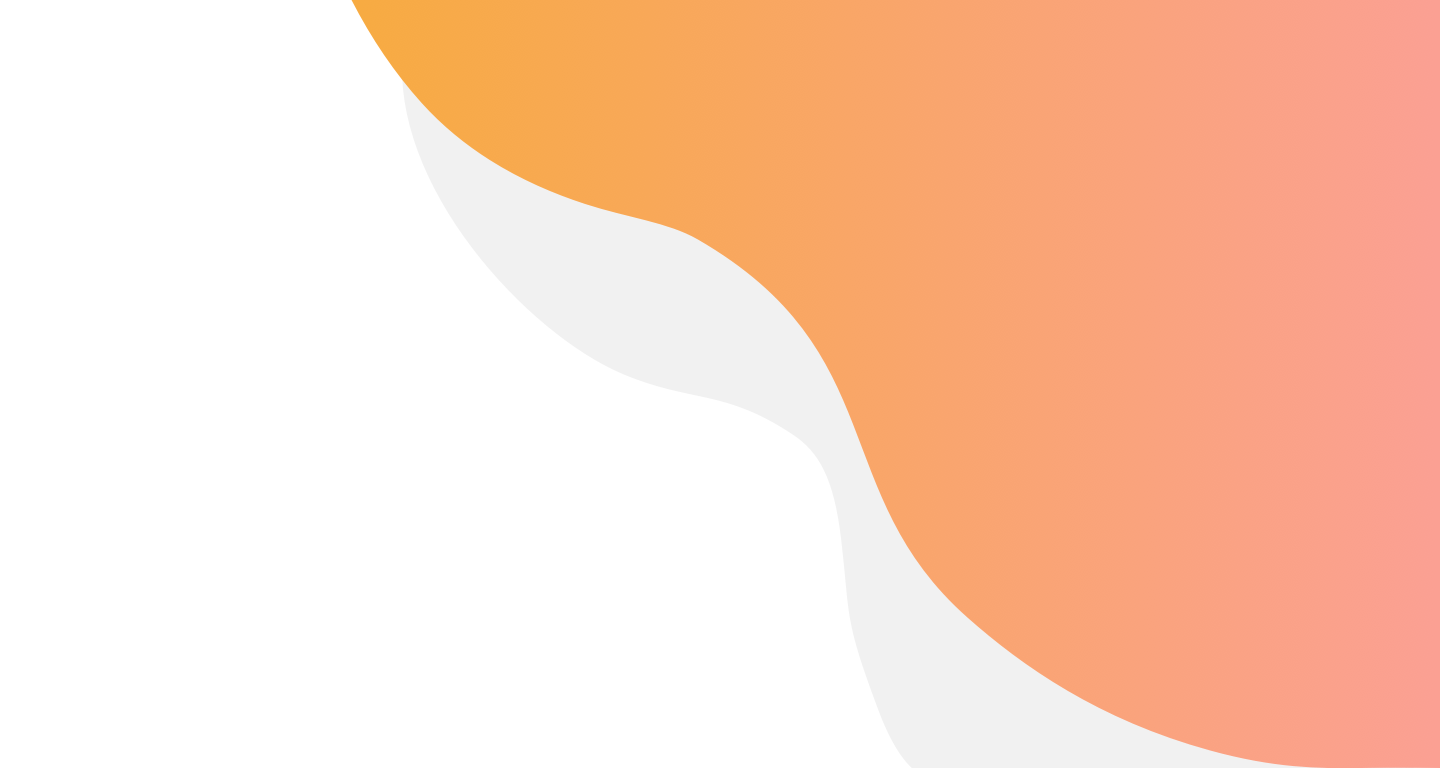
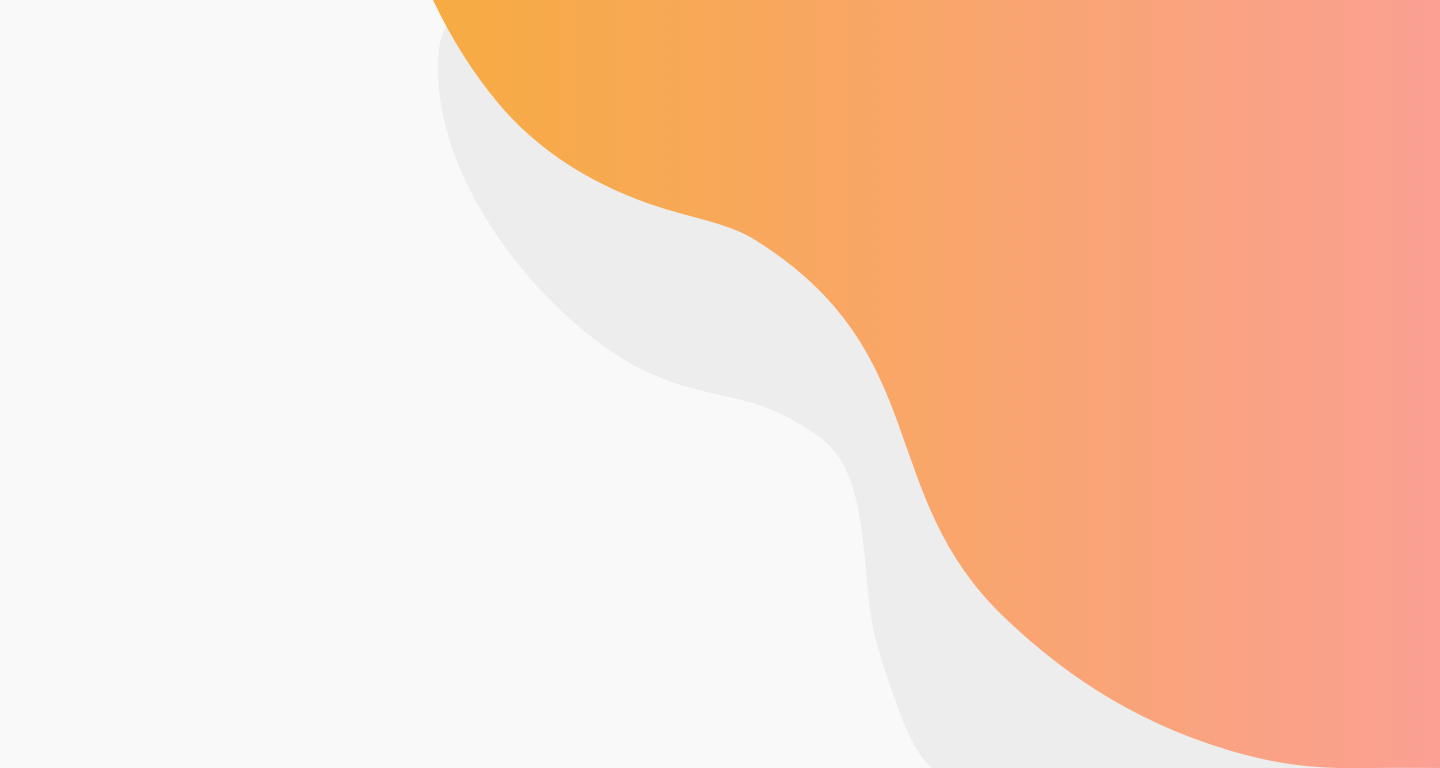
change bg-pic on desktop, edit registration form on desktop

Changed region(s): [[0.25, 0.0, 0.9062, 1.0]]

diff --git a/app/sass/blocks/_auth.sass b/app/sass/blocks/_auth.sass
@@ -1,24 +1,31 @@
 .auth
   height: 100vh
   overflow: hidden
-  background: url('../images/auth-bg-desktop.png') top no-repeat
-  background-size: cover
+  background: url('../images/auth-bg-desktop.svg') no-repeat
+  background-position: top right
+  background-size: auto 100vh
+
+  &--registration
+    background: url('../images/auth-bg-desktop--registration.svg') no-repeat
+    background-color: #F9F9F9
+    background-position: top right
+    background-size: auto 100vh
 
   +respond-to(1024px)
-    background: url('../images/auth-bg-tablet.png') no-repeat
-    background-size: cover
+    background: url('../images/auth-bg-tablet.svg') no-repeat
+    background-size: 100%
   
   +respond-to(768px)
-    background: url('../images/auth-bg-mobile.png') no-repeat
-    background-position-y: -130px
-    background-size: cover
+    background: url('../images/bg.svg') no-repeat
+    background-size: 100%
   
   +respond-to(540px)
-    background-position-y: -50px
+    overflow: auto
+    overflow-x: hidden
 
 .auth__header
   position: absolute
-  left: 20px
+  left: 0
   right: 20px
   top: 50px
   display: flex
@@ -41,6 +48,10 @@
     display: block
 
 .auth__header-btn
+  width: 137px
+  display: flex
+  align-items: center
+  justify-content: center
   background-color: #fff
   box-shadow: 0 1px 1px 0 #da3a29
   border-radius: 32px
@@ -52,14 +63,24 @@
   cursor: pointer
   border: none
 
+.auth__steps
+
+  +respond-to(1024px)
+   padding: 0
+
 .auth__content
-  height: 100vh
-  display: none
-  align-items: center
+  display: none  
+  align-items: flex-start
   justify-content: center
 
-  +respond-to(768px)
+  +respond-to(1024px)
+    align-items: center
+
+  +respond-to(768px)    
     padding: 0 20px
+
+  +respond-to(540px)
+    height: auto
 
 .auth__content--active
   display: flex
@@ -70,7 +91,7 @@
 .auth__form-registration,
 .auth__form-account
   @extend %page-wrapper
-  padding: 60px 140px 75px
+  padding: 45px 145px 56px
   width: 310px
   box-sizing: content-box
 
@@ -81,6 +102,12 @@
     background-color: transparent
     box-shadow: none
     padding-bottom: 30px
+
+.auth__form-registration
+  height: 560px
+  width: 550px
+  padding: 58px 120px 69px
+  box-sizing: border-box
 
 .auth__form-title
   +OpenSansSemiBold
@@ -94,7 +121,7 @@
   .auth__form-registration &
     font-size: 34px
     text-align: center
-    margin-bottom: 24px
+    margin-bottom: 20px
 
 .auth__form-subtitle
   +OpenSansRegular
@@ -108,12 +135,13 @@
 .auth__form-field
   display: block
   width: 310px
+  margin-bottom: 20px
 
   +respond-to(768px)
     width: 270px
-  
-  &:not(:last-child)
-    margin-bottom: 20px
+
+  &:nth-child(3) 
+    margin-bottom: 16px
 
 .auth__form-field--flex-column
   display: flex
@@ -121,20 +149,24 @@
 
 .auth__form-field--relative
   position: relative
+  margin-bottom: 16px  
 
 .auth__form-field-title
-  +OpenSansRegular
+  +LatoRegular
   font-size: 14px
-  color: #babbbb
-  margin-bottom: 16px
+  color: #BABBBB
+  margin-bottom: 13px
   display: block
+
+  &--sex
+    margin-bottom: 10px
 
 .auth__form-field-icon
   position: absolute
-  width: 20px
-  height: 20px
-  bottom: 12px
-  right: 20px
+  width: 22px
+  height: 21px
+  bottom: 8px
+  right: 16px
 
   svg
     max-width: 100%
@@ -146,6 +178,8 @@
 
 .auth__form-field-radio
   cursor: pointer
+  align-items: center
+  margin-bottom: 2px
   
   span
     +OpenSansRegular
@@ -154,7 +188,7 @@
     margin-left: 8px
   
   &:not(:last-child)
-    margin-right: 24px
+    margin-right: 29px
 
 .auth__form-field-radio-wrapper
   position: relative
@@ -178,36 +212,37 @@
     left: -2px
     top: 0
     background-color: #fff
-    width: 18px
-    height: 18px
+    width: 17px
+    height: 17px
   
   .auth__form-field-radio-circle
     content: ''
     position: absolute
-    width: 6px
-    height: 6px
+    width: 7px
+    height: 7px
     background-color: #dfe0e0
-    top: 6px
-    left: 4px
+    top: 5px
+    left: 3px
     border-radius: 50%
     margin: 0
     display: none
 
 .auth__form-field-input
+  appearance: none
   border: 1px solid #d7d7d7
   box-shadow: 0 3px 4px 0 rgba(225, 224, 224, .5)
   border-radius: 32px
   +OpenSansRegular
   font-size: 14px
   color: #243238
-  padding: 12px 20px
+  padding: 9px 20px
   width: 100%
+  height: 40px
 
   +respond-to(768px)
     padding: 6px 20px
 
 .auth__form-wrapper
-  margin-top: 24px
   display: flex
   align-items: center
   flex-wrap: wrap
@@ -232,15 +267,15 @@
   background-image: linear-gradient(-269deg, #fc9e67 0%, #fb786b 100%)
   box-shadow: 0 3px 4px 0 rgba(225, 224, 224, .5)
   border-radius: 32px
-  margin-right: 24px
+  margin-right: 29px
   padding: 12px 36px
   +OpenSansSemiBold
-  font-size: 14px
+  font-size: 13px
   color: #fff
 
 .auth__form-submit--registration
   padding: 12px 0
-  width: 170px
+  width: 190px
   text-align: center
   font-size: 12px
 
@@ -279,7 +314,7 @@
     max-width: 100%
   
   &:not(:last-child)
-    margin-right: 8px
+    margin-right: 17px
 
 .auth__forgot-password
   +OpenSansSemiBold

diff --git a/app/sass/blocks/_global.sass b/app/sass/blocks/_global.sass
@@ -2,10 +2,9 @@ body
   +font-smoothing
   
 .container
-  max-width: 1215px
+  max-width: 1200px
   margin: 0 auto
   width: 100%
-  padding: 0 20px
   padding-top: 50px
 
   +respond-to(650px)
@@ -13,6 +12,11 @@ body
 
 .container--relative
   position: relative
+  display: flex
+  align-items: center
+  justify-content: center
+  min-height: 100vh
+  padding-top: 0
 
 main
   +respond-to(1024px)
